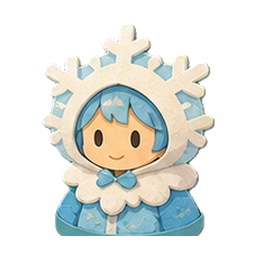
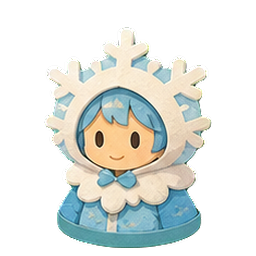
art(givers): re-cut the quest-giver busts so the authored paper base survives
The shipped busts were flat-bottomed — every character's rounded cut-paper base
was gone, so the cutout ended in a hard line and read as clipped on the quest
card. The generator drew the bases (plainly on the raw green sheet); a fixed-grid
cut dropped each cell's bottom band into the next row.

Add games/tools/slice_giver_sheet.py: segment the de-keyed sheet by connected
components, bucket to cells by centroid (nothing cut at a boundary), green-key
despill on the full-res cut AND after each resize, one shared scale + common
baseline for consistent cast weight. Acceptance gate rejects key fringe, edge
clipping, enclosed pockets, and the flat-bottom defect itself. Re-cut all 25
busts (map 0 + 4 themed casts) from _originals green raw.

diff --git a/games/tools/slice_giver_sheet.py b/games/tools/slice_giver_sheet.py
@@ -1,0 +1,239 @@
+#!/usr/bin/env python3
+"""Slice the 5x5 quest-giver character sheet into 25 clean 256x256 bust sprites.
+
+Source: assets/_originals/characters/quest_givers_5x5_cutpaper_v2_green_raw.png
+Output: assets/characters/giver_<n>.png (row 0) and giver_m<row>_<n>.png (rows 1..4)
+        — one themed 5-face cast per map, the pool Bust.giver_path() reads.
+
+ROOT CAUSE this tool fixes
+--------------------------
+The shipped busts were flat-bottomed: every character's authored rounded paper base
+was gone, so the cut-paper cutout ended in a hard horizontal line and read as
+"clipped at the bottom" on the quest card. The generator DID draw the bases (they
+are plainly there on the raw sheet) — they were lost downstream by a fixed-grid cut
+whose cell pitch did not match the drawn layout, so each cell's bottom band fell
+into the next row and was thrown away.
+
+Segmenting by CONNECTED COMPONENTS on the de-keyed sheet and bucketing components
+into cells by CENTROID makes that class of bug impossible: nothing is ever cut at a
+cell boundary, so a subject is either wholly present or loudly missing.
+
+Sizing
+------
+The pool must read with CONSISTENT VISUAL WEIGHT (§5, character bust contract), so a
+SINGLE scale derived from the largest subject on the sheet is applied to all 25 —
+never a per-sprite fill, which would blow up the small characters. Each bust is
+centred horizontally and sits on a COMMON BASELINE, so the paper bases line up
+across the cast when the cards sit side by side.
+
+Usage
+-----
+  python3 games/tools/slice_giver_sheet.py [--montage] [--dry-run]
+"""
+from __future__ import annotations
+
+import argparse
+from pathlib import Path
+
+import numpy as np
+from PIL import Image
+from scipy import ndimage
+
+REPO = Path(__file__).resolve().parents[2]
+SRC = REPO / "games/grove/assets/_originals/characters/quest_givers_5x5_cutpaper_v2_green_raw.png"
+OUT_DIR = REPO / "games/grove/assets/characters"
+SCRATCH = REPO / "tmp/givercut"
+
+ROWS, COLS = 5, 5
+SIZE = 256          # output canvas (square) — the §5 character-bust master
+FILL = 0.94         # the LARGEST subject fills this fraction of the canvas
+BOTTOM_PAD = 0.03   # baseline gap under the paper base, as a fraction of SIZE
+MIN_AREA = 400      # ignore foreground specks below this when bucketing
+TOL_FLOOD = 70      # key distance (0-255 RGB euclidean) for the border flood
+POCKET_MIN = 120    # an enclosed key pocket must be at least this big to punch
+RAMP_LO, RAMP_HI = 30, 110   # green-excess band mapped opaque -> transparent
+DESPILL_D = 15      # in a visible pixel, clamp G <= max(R,B) + DESPILL_D
+
+
+def green_excess(rgb: np.ndarray) -> np.ndarray:
+    """How much greener than the subject's own red/blue a pixel is."""
+    return rgb[:, :, 1].astype(np.int32) - np.maximum(rgb[:, :, 0], rgb[:, :, 2]).astype(np.int32)
+
+
+def key_mask(rgba: np.ndarray) -> tuple[np.ndarray, np.ndarray]:
+    """Return (foreground bool mask, sampled key colour)."""
+    h, w, _ = rgba.shape
+    rgb = rgba[:, :, :3].astype(np.int32)
+    corners = np.concatenate([
+        rgb[0:8, 0:8].reshape(-1, 3), rgb[0:8, w - 8:w].reshape(-1, 3),
+        rgb[h - 8:h, 0:8].reshape(-1, 3), rgb[h - 8:h, w - 8:w].reshape(-1, 3)])
+    key = np.median(corners, axis=0)
+    dist = np.sqrt(((rgb - key) ** 2).sum(axis=2))
+    near_key = (dist < TOL_FLOOD) | (green_excess(rgb) > RAMP_HI)
+
+    # Background = near-key regions reachable from the border. The flood only follows
+    # key-coloured pixels, so the characters' own green foliage (walled off by their
+    # cut edge, and far from pure #09F80D) survives.
+    lbl, _ = ndimage.label(near_key)
+    border = set(np.unique(np.concatenate([lbl[0], lbl[-1], lbl[:, 0], lbl[:, -1]])))
+    border.discard(0)
+    bg = np.isin(lbl, list(border))
+
+    # Enclosed key pockets a border flood can't reach (a lantern handle's eye, the gap
+    # under an arm). Only punch a pocket that is genuinely the key colour.
+    enclosed = near_key & ~bg
+    elbl, en = ndimage.label(enclosed)
+    for li in range(1, en + 1):
+        m = elbl == li
+        if int(m.sum()) >= POCKET_MIN and dist[m].mean() < TOL_FLOOD:
+            bg |= m
+    return ~bg, key
+
+
+def despill(arr: np.ndarray) -> np.ndarray:
+    """Clamp residual key tint in every visible pixel; zero RGB outside alpha.
+
+    Run on the full-res cut AND again after the resize: unpremultiplying a LANCZOS
+    result divides an 8-bit premultiplied colour by a small alpha, and the rounding
+    error is amplified per channel — which resurrects a green edge band out of an
+    already-clean cut. Re-clamping after the resample is what actually holds the gate.
+    """
+    rgb = arr[:, :, :3].astype(np.float64)
+    vis = arr[:, :, 3] > 16
+    cap = np.maximum(rgb[:, :, 0], rgb[:, :, 2]) + DESPILL_D
+    rgb[:, :, 1] = np.where(vis, np.minimum(rgb[:, :, 1], cap), rgb[:, :, 1])
+    rgb[~vis] = 0.0
+    return np.concatenate([np.clip(rgb, 0, 255), arr[:, :, 3:4]], axis=2).astype(np.uint8)
+
+
+def cut_rgba(rgba: np.ndarray, fg: np.ndarray) -> np.ndarray:
+    """Soft alpha ramp over key distance + despill, per §8 edge treatment."""
+    ge = green_excess(rgba[:, :, :3])
+    ramp = np.clip((RAMP_HI - ge) / float(RAMP_HI - RAMP_LO), 0.0, 1.0)
+    alpha = np.where(fg, ramp * 255.0, 0.0)
+    return despill(np.concatenate(
+        [rgba[:, :, :3].astype(np.float64), alpha[:, :, None]], axis=2).astype(np.uint8))
+
+
+def premult_resize(arr: np.ndarray, nw: int, nh: int) -> Image.Image:
+    """LANCZOS resize through premultiplied alpha — no dark or key-colour halo."""
+    a = arr[:, :, 3:4].astype(np.float64) / 255.0
+    pm = np.concatenate([arr[:, :, :3].astype(np.float64) * a,
+                         arr[:, :, 3:4].astype(np.float64)], axis=2)
+    img = Image.fromarray(np.clip(pm, 0, 255).astype(np.uint8), "RGBA").resize(
+        (nw, nh), Image.LANCZOS)
+    out = np.asarray(img).astype(np.float64)
+    a2 = out[:, :, 3:4] / 255.0
+    with np.errstate(divide="ignore", invalid="ignore"):
+        rgb2 = np.where(a2 > 0, out[:, :, :3] / a2, 0)
+    return Image.fromarray(
+        np.concatenate([np.clip(rgb2, 0, 255), out[:, :, 3:4]], axis=2).astype(np.uint8), "RGBA")
+
+
+def name_for(r: int, c: int) -> str:
+    return f"giver_{c}.png" if r == 0 else f"giver_m{r}_{c}.png"
+
+
+def gate(name: str, frame: Image.Image) -> list[str]:
+    """The §8 acceptance gate — measured, not eyeballed. Returns failure strings."""
+    a = np.asarray(frame).astype(np.int32)
+    vis = a[:, :, 3] > 16
+    fails = []
+    fringe = int((vis & (green_excess(a[:, :, :3].astype(np.uint8)) > 40)).sum())
+    if fringe:
+        fails.append(f"{name}: {fringe} key-fringe px")
+    edge = int(vis[0].sum() + vis[-1].sum() + vis[:, 0].sum() + vis[:, -1].sum())
+    if edge:
+        fails.append(f"{name}: {edge} opaque px on a canvas edge (clipped)")
+    # A flat-bottomed bust is the defect this tool exists to kill: a genuine cut-paper
+    # base tapers, so its last few rows narrow. A silhouette whose bottom row is as wide
+    # as the widest row below the waist was truncated, not drawn.
+    ys = np.where(vis.any(axis=1))[0]
+    if len(ys):
+        widths = vis[ys.min():ys.max() + 1].sum(axis=1)
+        low = widths[len(widths) // 2:]
+        if len(low) and widths[-1] >= low.max() * 0.9:
+            fails.append(f"{name}: flat bottom — last row {int(widths[-1])} px vs "
+                         f"max lower-half {int(low.max())} px")
+    return fails
+
+
+def main() -> None:
+    ap = argparse.ArgumentParser(description=__doc__,
+                                 formatter_class=argparse.RawDescriptionHelpFormatter)
+    ap.add_argument("--montage", action="store_true", help="write a review montage to tmp/givercut/")
+    ap.add_argument("--dry-run", action="store_true", help="write to tmp/givercut/ instead of assets/characters/")
+    args = ap.parse_args()
+
+    if not SRC.exists():
+        raise SystemExit(f"FAIL: missing source {SRC}")
+    rgba = np.array(Image.open(SRC).convert("RGBA"))
+    h, w, _ = rgba.shape
+    fg, key = key_mask(rgba)
+    cut = cut_rgba(rgba, fg)
+
+    lbl, n = ndimage.label(fg)
+    areas = ndimage.sum(np.ones_like(lbl), lbl, range(1, n + 1))
+    coms = ndimage.center_of_mass(np.ones_like(lbl), lbl, range(1, n + 1))
+    cells: dict[tuple[int, int], list[int]] = {}
+    for li in range(1, n + 1):
+        if areas[li - 1] < MIN_AREA:
+            continue
+        cy, cx = coms[li - 1]
+        cells.setdefault((min(ROWS - 1, int(cy * ROWS / h)),
+                          min(COLS - 1, int(cx * COLS / w))), []).append(li)
+
+    missing = [(r, c) for r in range(ROWS) for c in range(COLS) if (r, c) not in cells]
+    if missing:
+        raise SystemExit(f"FAIL: {len(missing)} empty cell(s) {missing} — "
+                         f"segmentation found no subject there; check the sheet or MIN_AREA.")
+
+    # bboxes first — one shared scale keeps the cast's visual weight consistent.
+    boxes = {}
+    for rc, comps in cells.items():
+        ys, xs = np.where(np.isin(lbl, comps))
+        boxes[rc] = (ys.min(), ys.max() + 1, xs.min(), xs.max() + 1)
+    biggest = max(max(y1 - y0, x1 - x0) for y0, y1, x0, x1 in boxes.values())
+    scale = SIZE * FILL / biggest
+    base_y = SIZE - int(round(SIZE * BOTTOM_PAD))
+
+    out_dir = SCRATCH if (args.dry_run or args.montage and args.dry_run) else OUT_DIR
+    if args.dry_run:
+        out_dir = SCRATCH
+    out_dir.mkdir(parents=True, exist_ok=True)
+
+    tiles, fails = [], []
+    for r in range(ROWS):
+        for c in range(COLS):
+            y0, y1, x0, x1 = boxes[(r, c)]
+            mask = np.isin(lbl, cells[(r, c)])[y0:y1, x0:x1]
+            sub = cut[y0:y1, x0:x1].copy()
+            sub[:, :, 3] = np.where(mask, sub[:, :, 3], 0)
+            nw = max(1, round((x1 - x0) * scale))
+            nh = max(1, round((y1 - y0) * scale))
+            frame = Image.new("RGBA", (SIZE, SIZE), (0, 0, 0, 0))
+            obj = Image.fromarray(despill(np.asarray(premult_resize(sub, nw, nh))), "RGBA")
+            frame.alpha_composite(obj, ((SIZE - nw) // 2, base_y - nh))
+            name = name_for(r, c)
+            fails += gate(name, frame)
+            frame.save(out_dir / name)
+            tiles.append(frame)
+
+    if fails:
+        raise SystemExit("FAIL acceptance gate:\n  " + "\n  ".join(fails))
+    print(f"slice_giver_sheet: {ROWS * COLS} busts -> {out_dir}  "
+          f"(key={key.astype(int).tolist()}, comps={n}, scale={scale:.3f})")
+
+    if args.montage:
+        SCRATCH.mkdir(parents=True, exist_ok=True)
+        for tag, bgc in (("cream", (236, 223, 194, 255)), ("dark", (36, 59, 75, 255))):
+            canvas = Image.new("RGBA", (COLS * SIZE, ROWS * SIZE), bgc)
+            for i, t in enumerate(tiles):
+                canvas.alpha_composite(t, ((i % COLS) * SIZE, (i // COLS) * SIZE))
+            p = SCRATCH / f"givers_montage_{tag}.png"
+            canvas.convert("RGB").save(p)
+            print(f"    montage -> {p}")
+
+
+if __name__ == "__main__":
+    main()
